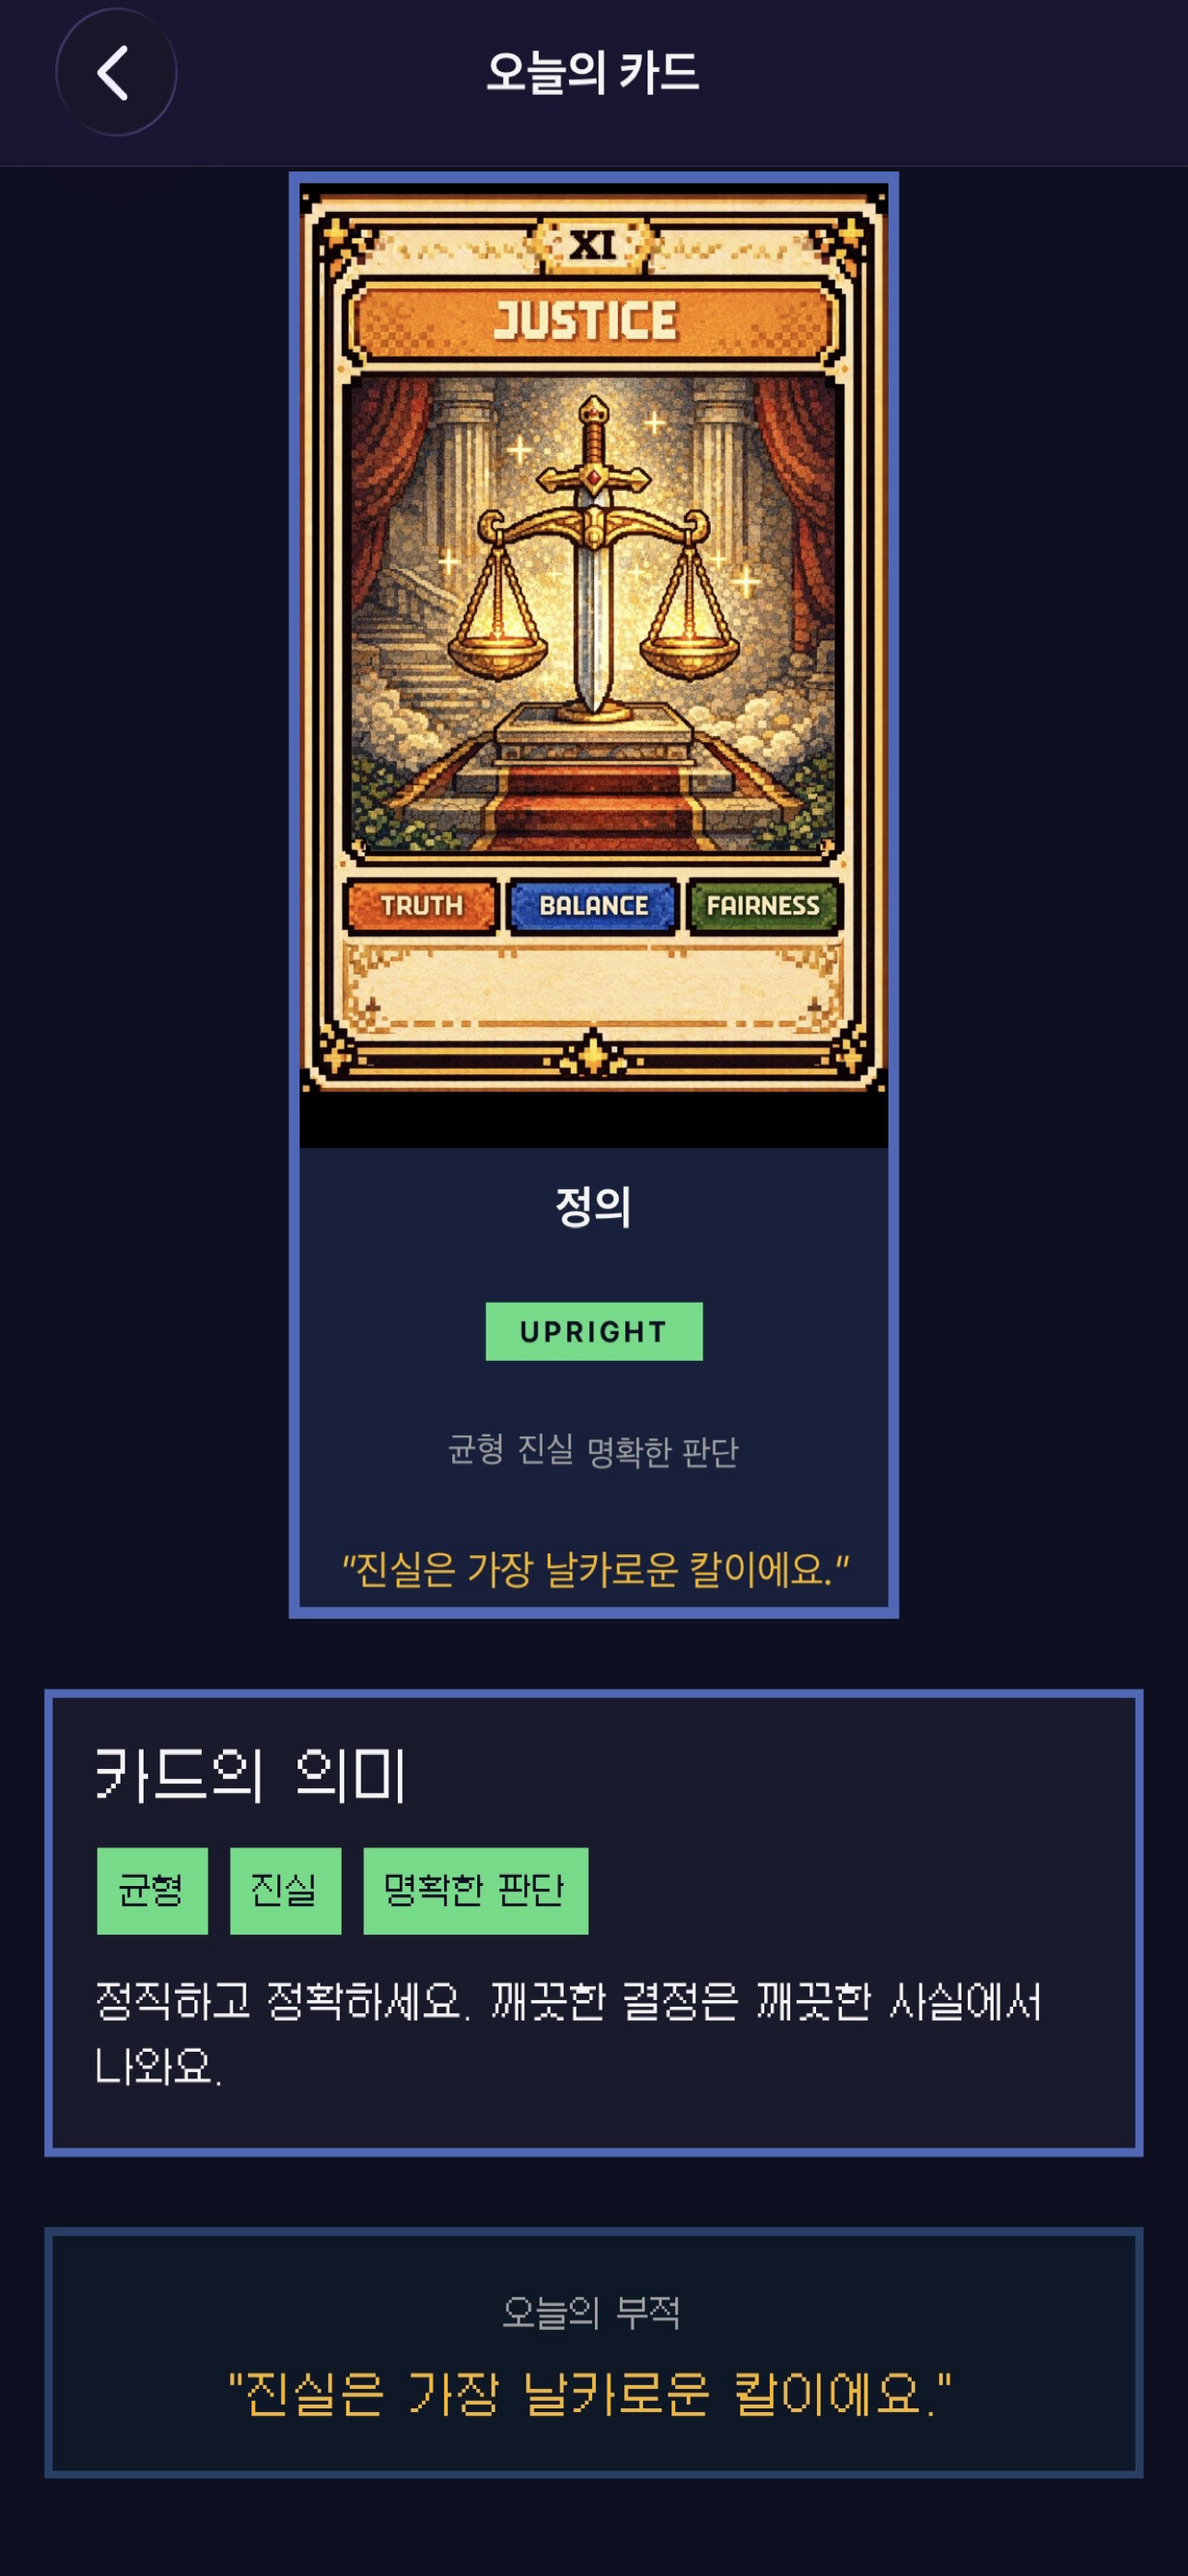
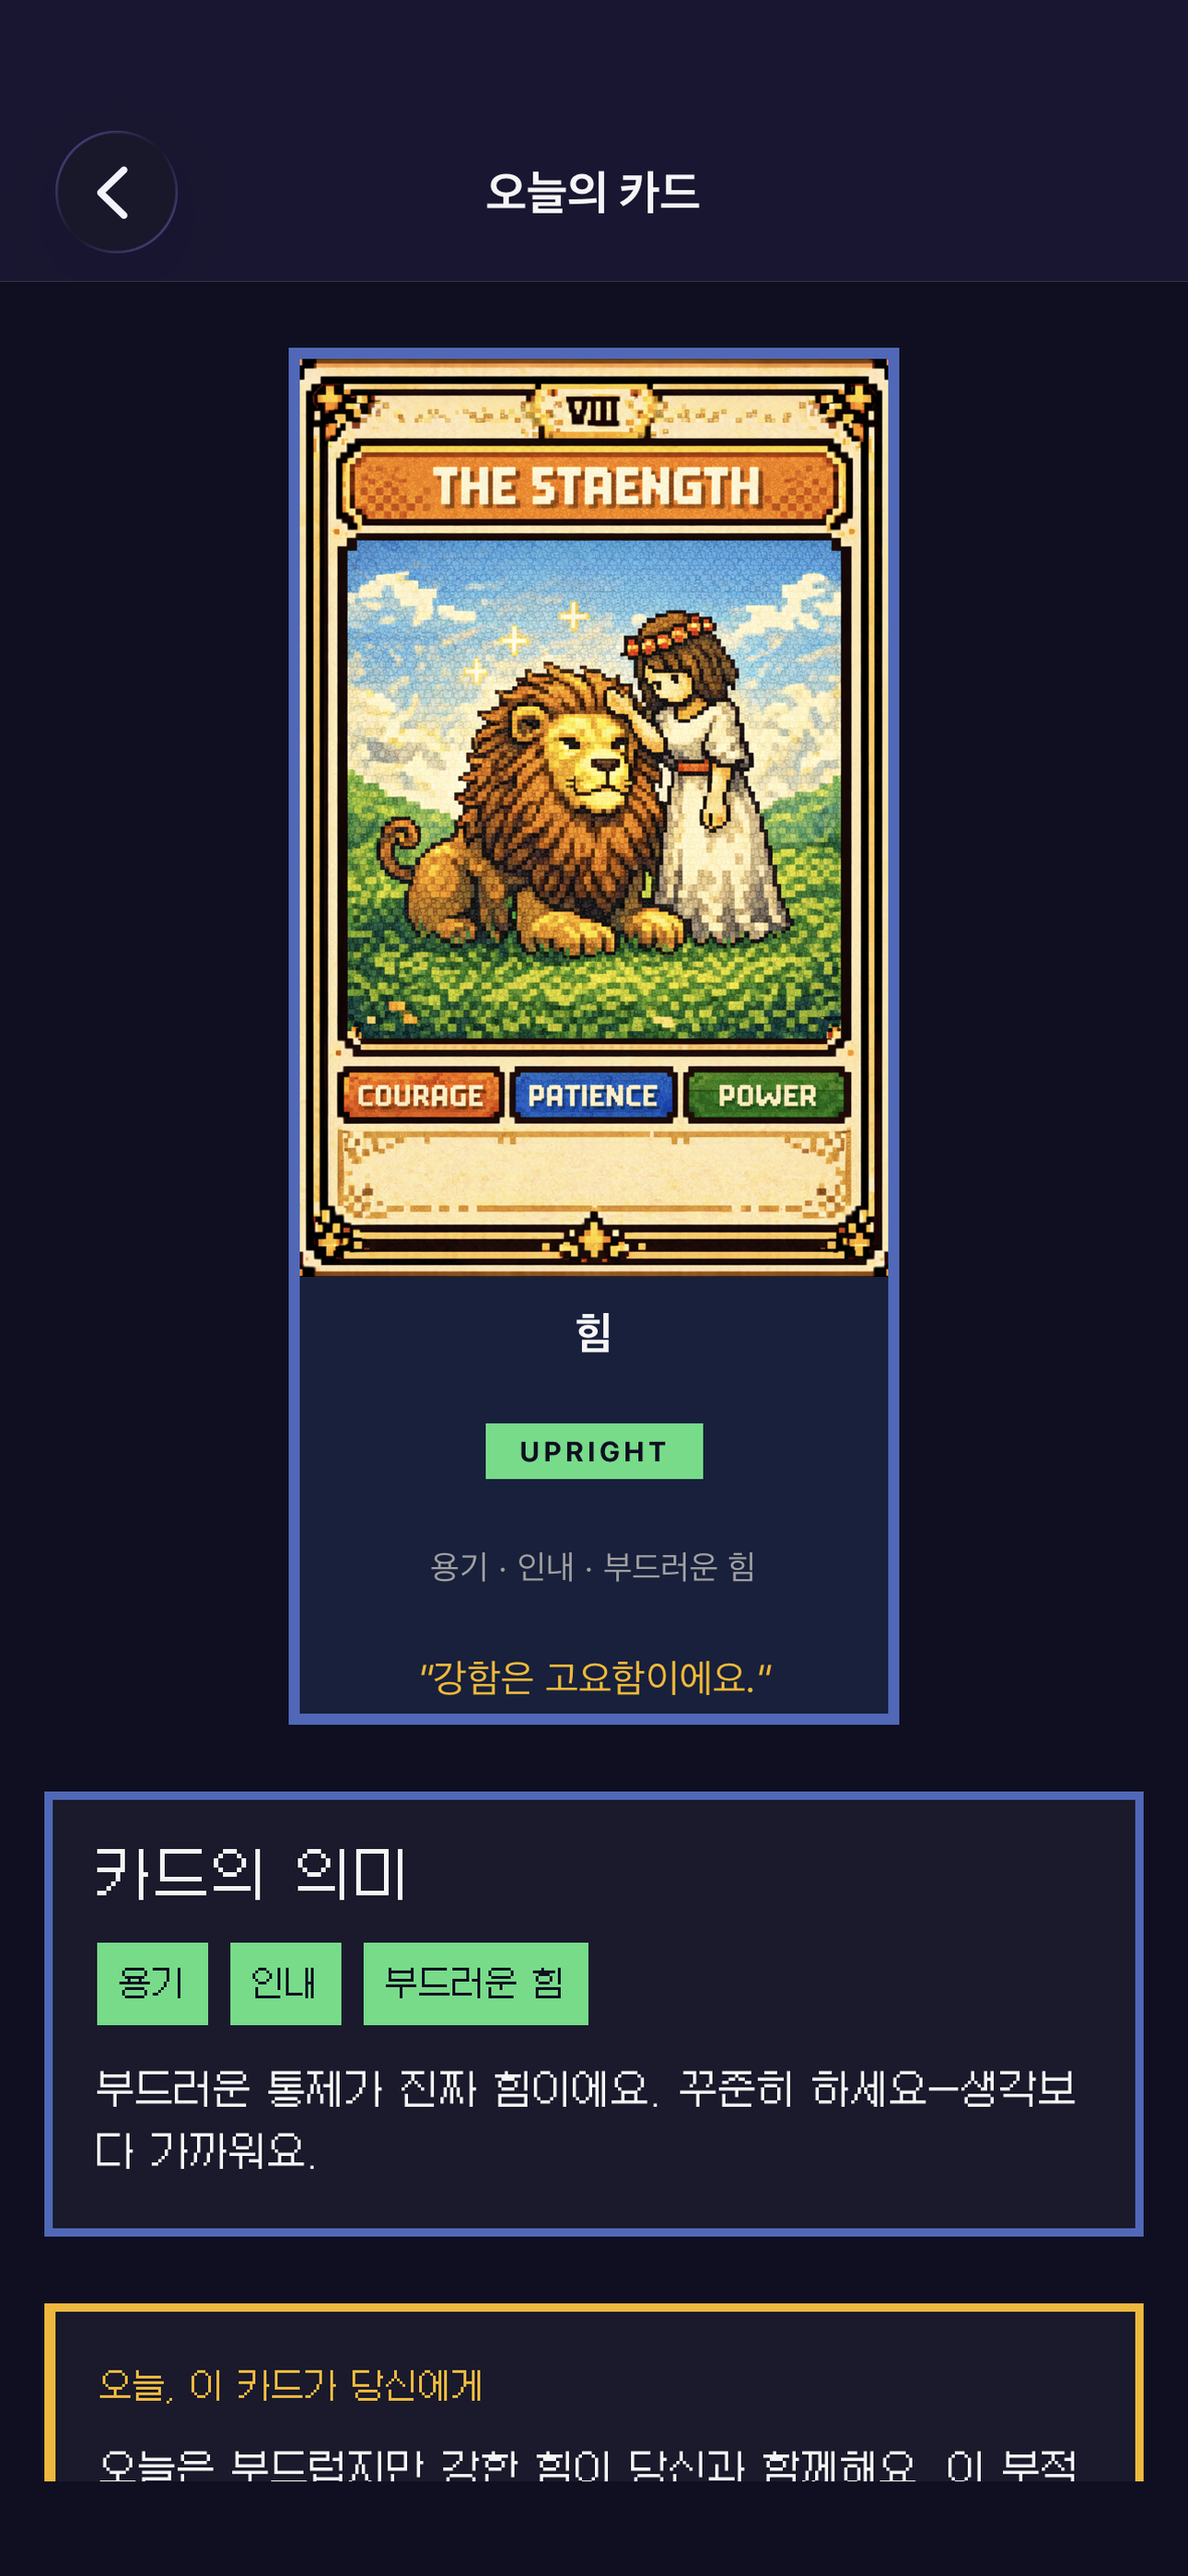
스크린샷 이미지 교체

diff --git a/docs/app-store-connect-guide.md b/docs/app-store-connect-guide.md
@@ -224,17 +224,24 @@ https://geunee92.github.io/dot-tarot/support.html
 This is a tarot card reading app with pixel art style.
 
 Key features:
-- Free daily tarot card reading
+- Free daily tarot card reading with personalized daily context
 - 3-card spread readings for Love, Money, and Work topics
+- AI-powered interpretation for 3-card spreads (via Cloudflare Workers API)
+- Optional user question input before spread reading
 - Calendar to track reading history
 - Card back skin rewards for daily attendance
 
 Monetization:
-- Free with Google AdMob ads (test IDs currently in use)
+- Free with Google AdMob rewarded video ads (production IDs)
+- Daily card is always free
+- One free 3-card spread per day
 - Additional readings unlocked via rewarded video ads
 
-No user login or account required.
-All data stored locally on device.
+Technical:
+- No user login or account required
+- All reading data stored locally on device
+- AI interpretation calls external API (Cloudflare Workers)
+- No personal data collected or transmitted
 ```
 
 ---
